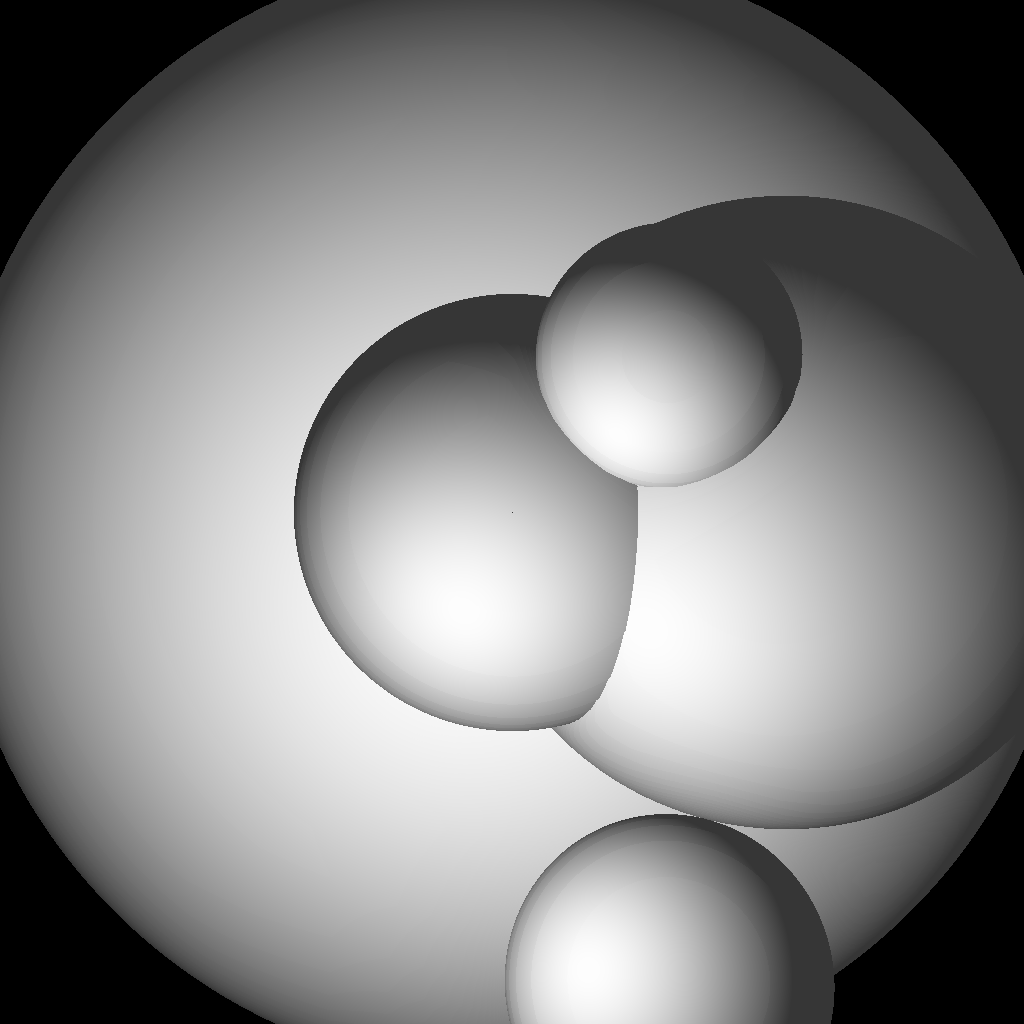
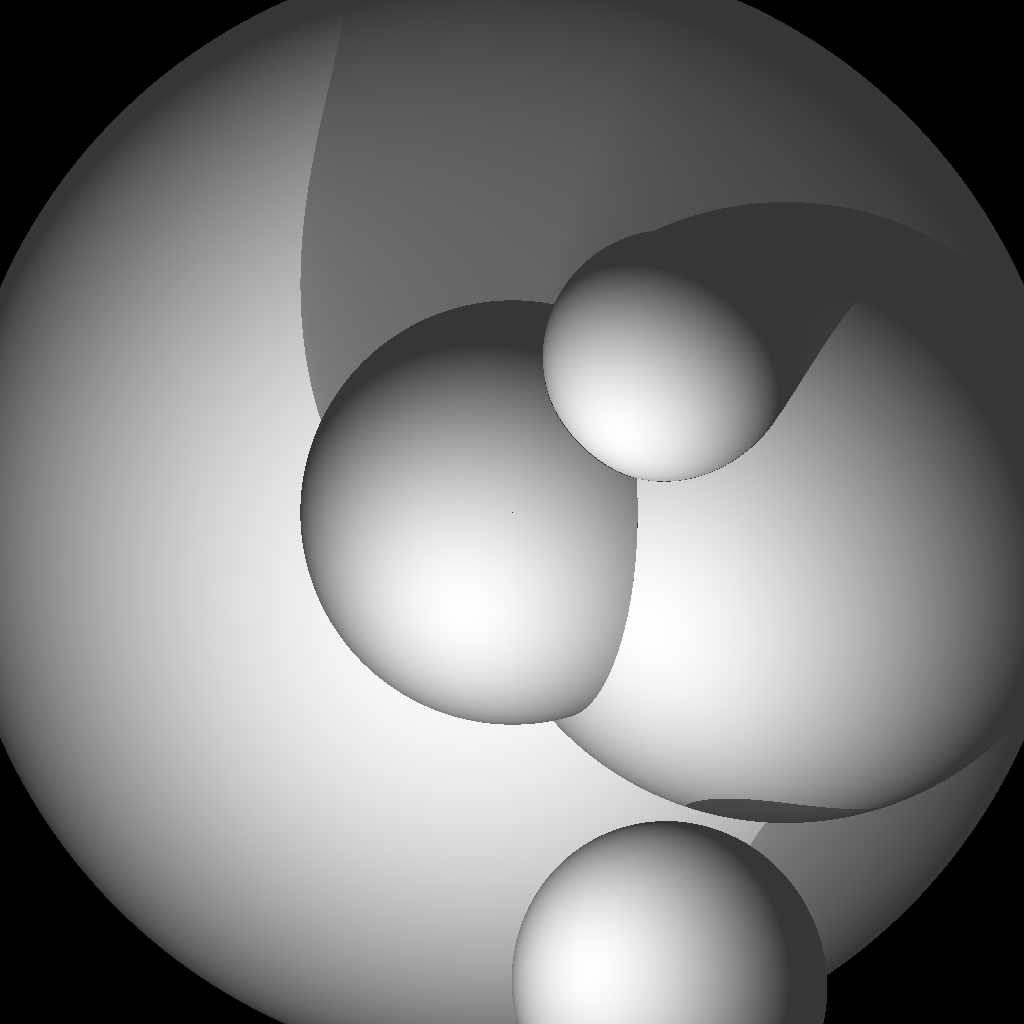
shadows

diff --git a/src/main.rs b/src/main.rs
@@ -3,6 +3,8 @@ use nalgebra as na;
 
 extern crate rayon;
 
+mod sdf;
+
 use rayon::iter::{IntoParallelIterator, ParallelIterator};
 type Scalar = f64;
 type Point = na::Point3<Scalar>;
@@ -11,21 +13,23 @@ type Vector = na::Vector3<Scalar>;
 const WIDTH: u32 = 1024;
 const HEIGHT: u32 = WIDTH;
 fn main() {
-
     let origin = Point::new(0.0, 0.0, -3.5);
 
-    let buff: Vec<u8> = (0..HEIGHT).into_par_iter().flat_map(|y| {
-        (0..WIDTH).into_par_iter().flat_map(move |x| {
-            let screen_point = Point::new(
-                2.0 * (x as Scalar) / (WIDTH as Scalar) - 1.0,
-                2.0 * (y as Scalar) / (HEIGHT as Scalar) - 1.0,
-                0.0,
-            );
-            let dir = screen_point - origin;
-            let res = ray_cast(origin, dir.normalize());
-            [res, res, res]
+    let buff: Vec<u8> = (0..HEIGHT)
+        .into_par_iter()
+        .flat_map(|y| {
+            (0..WIDTH).into_par_iter().flat_map(move |x| {
+                let screen_point = Point::new(
+                    2.0 * (x as Scalar) / (WIDTH as Scalar) - 1.0,
+                    2.0 * (y as Scalar) / (HEIGHT as Scalar) - 1.0,
+                    0.0,
+                );
+                let dir = (screen_point - origin) * 10000.0;
+                let res = ray_cast(origin, dir);
+                [res, res, res]
+            })
         })
-    }).collect();
+        .collect();
 
     let img: ImageBuffer<image::Rgb<u8>, _> = ImageBuffer::from_vec(WIDTH, HEIGHT, buff).unwrap();
 
@@ -33,19 +37,42 @@ fn main() {
     println!("DONE");
 }
 
+fn ray_cast_towards(origin: Point, dir: Vector) -> (Scalar, Scalar) {
+    let mut ds = 0.0;
+    let dir_len = dir.magnitude();
+    let mut min_closest = Scalar::MAX;
+    for _ in 0..500 {
+        //this is not a good idea later
+        let closest = distance(origin + dir * ds).magnitude();
+        min_closest = min_closest.min(closest);
+        let step_size = closest;
+        ds += step_size / dir_len;
+        if step_size <= 0.005 || ds > 1.0 {
+            return (ds.min(1.0), min_closest);
+        }
+    }
+    panic!("to many iters");
+}
+
 fn ray_cast(origin: Point, dir: Vector) -> u8 {
     let _light = Vector::new(-2.0, -3.5, 2.0).normalize();
     let light_pos = Point::new(-1.0, 2.0, 5.0);
-    let mut p = origin;
-    for _ in 0..50 {
-        let closest = distance(p);
-        let step = closest.magnitude();
-        if step <= 0.05 {
-            return (200.0 * (p - light_pos).normalize().dot(&(-closest / step)).max(0.0) + 54.0) as u8;
-        }
-        p = p + dir * step
+    let (param, _) = ray_cast_towards(origin, dir);
+    if param >= 1.0 {
+        0
+    } else {
+        let p = origin + dir * param;
+        let normal = distance(p);
+        let light_dir = light_pos - p;
+        let (r, c) = ray_cast_towards(p + normal.normalize() * 0.01, light_dir);
+
+        return (200.0 * r// * c.min(0.05) / 0.05
+            * (p - light_pos)
+                .normalize()
+                .dot(&(-normal.normalize()))
+                .max(0.0)
+            + 54.0) as u8;
     }
-    0
 }
 
 fn distance(p: Point) -> Vector {
@@ -65,5 +92,8 @@ fn sphere(origin: Point, r: Scalar, p: Point) -> Vector {
 }
 
 fn max_vec(vecs: &[Vector]) -> Vector {
-    *vecs.into_iter().max_by(|&v2, &v1| v1.magnitude_squared().total_cmp(&v2.magnitude_squared())).unwrap()
+    *vecs
+        .into_iter()
+        .max_by(|&v2, &v1| v1.magnitude_squared().total_cmp(&v2.magnitude_squared()))
+        .unwrap()
 }

diff --git a/src/sdf.rs b/src/sdf.rs
@@ -1,0 +1,64 @@
+
+use nalgebra as na;
+
+use crate::{Scalar, Vector, Point};
+
+pub trait SDF<I, O> {
+    fn query(&self, point: I) -> O;
+}
+
+impl SDF<Point, Scalar> for Entity {
+    fn query(&self, point: Point) -> Scalar {
+        match self {
+            Entity::Sphere { r } => todo!(),
+            Entity::Box { dims } => todo!(),
+            Entity::Elongation {  } => todo!(),
+            Entity::Union {  } => todo!(),
+            Entity::Transform {  } => todo!(),
+            Entity::Symmetry {  } => todo!(),
+            Entity::Repetition {  } => todo!(),
+            Entity::FiniteRep {  } => todo!(),
+            Entity::Displacement {  } => todo!(),
+            Entity::Twist {  } => todo!(),
+            Entity::Bend {  } => todo!(),
+        }
+    }
+}
+
+impl<T: SDF<Point, Scalar>> SDF<Point, Vector> for T {
+    fn query(&self, point: Point) -> Vector {
+        todo!()
+    }
+}
+
+enum Entity {
+    //Primitives
+    Sphere { r: Scalar },
+    Box { dims: Vector },
+    //..
+
+    //Alterations
+    Elongation {},
+    //..
+
+    //Combinations
+    Union {},
+    //..
+
+    //Positioning
+    Transform {},
+    //..
+
+    //Duplication
+    Symmetry {},
+    Repetition {},
+    FiniteRep {},
+
+    //Deformations/Distortions
+    Displacement {},
+    Twist {},
+    Bend {},
+}
+
+
+//https://iquilezles.org/articles/distfunctions/

diff --git a/src/types.rs b/src/types.rs
@@ -1,0 +1,3 @@
+type Scalar = f64;
+type Point = na::Point3<Scalar>;
+type Vector = na::Vector3<Scalar>;
